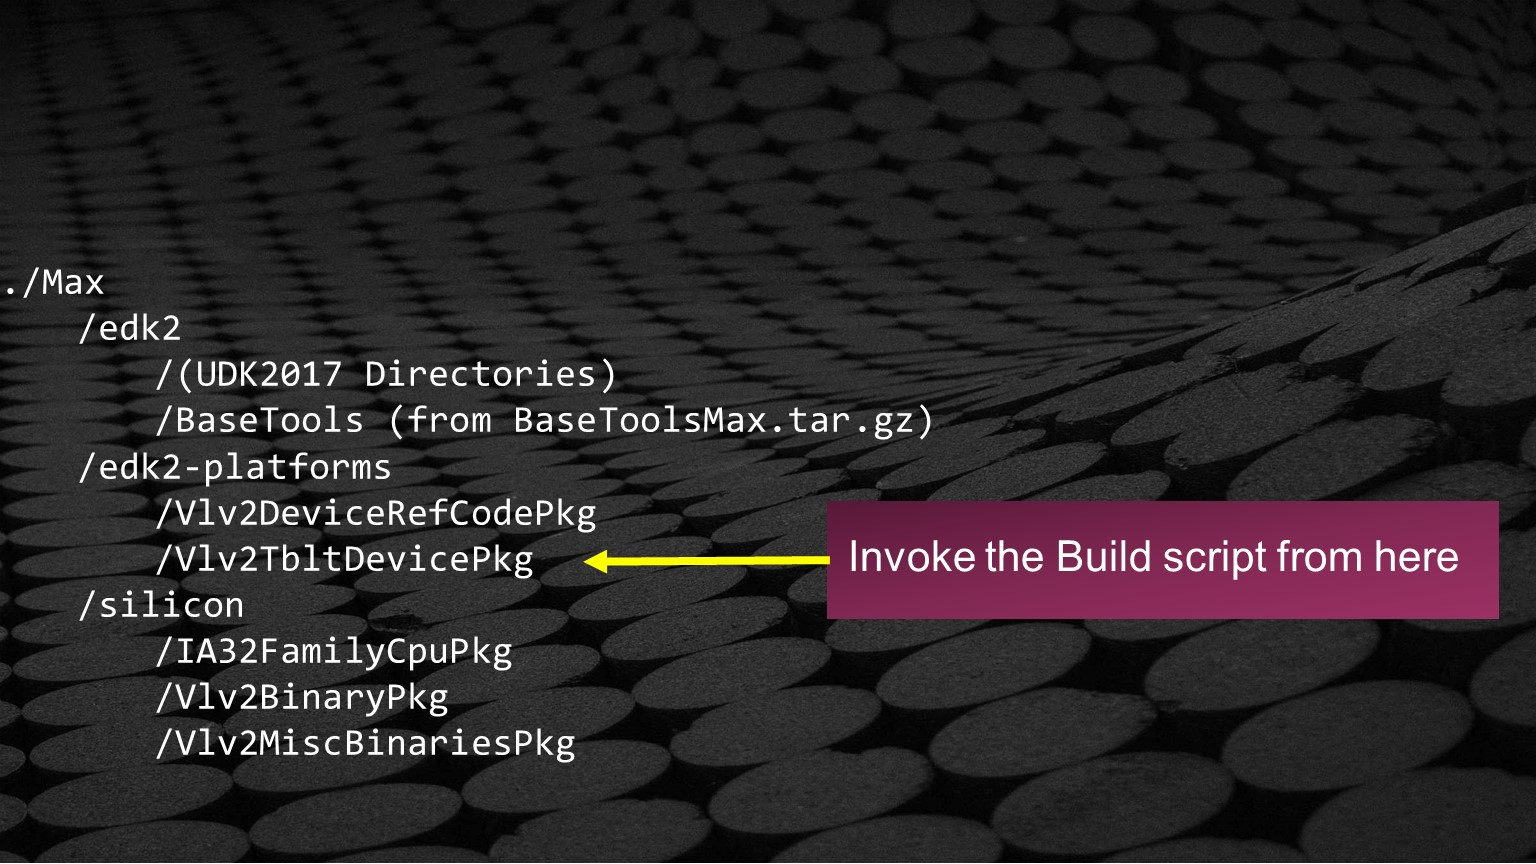
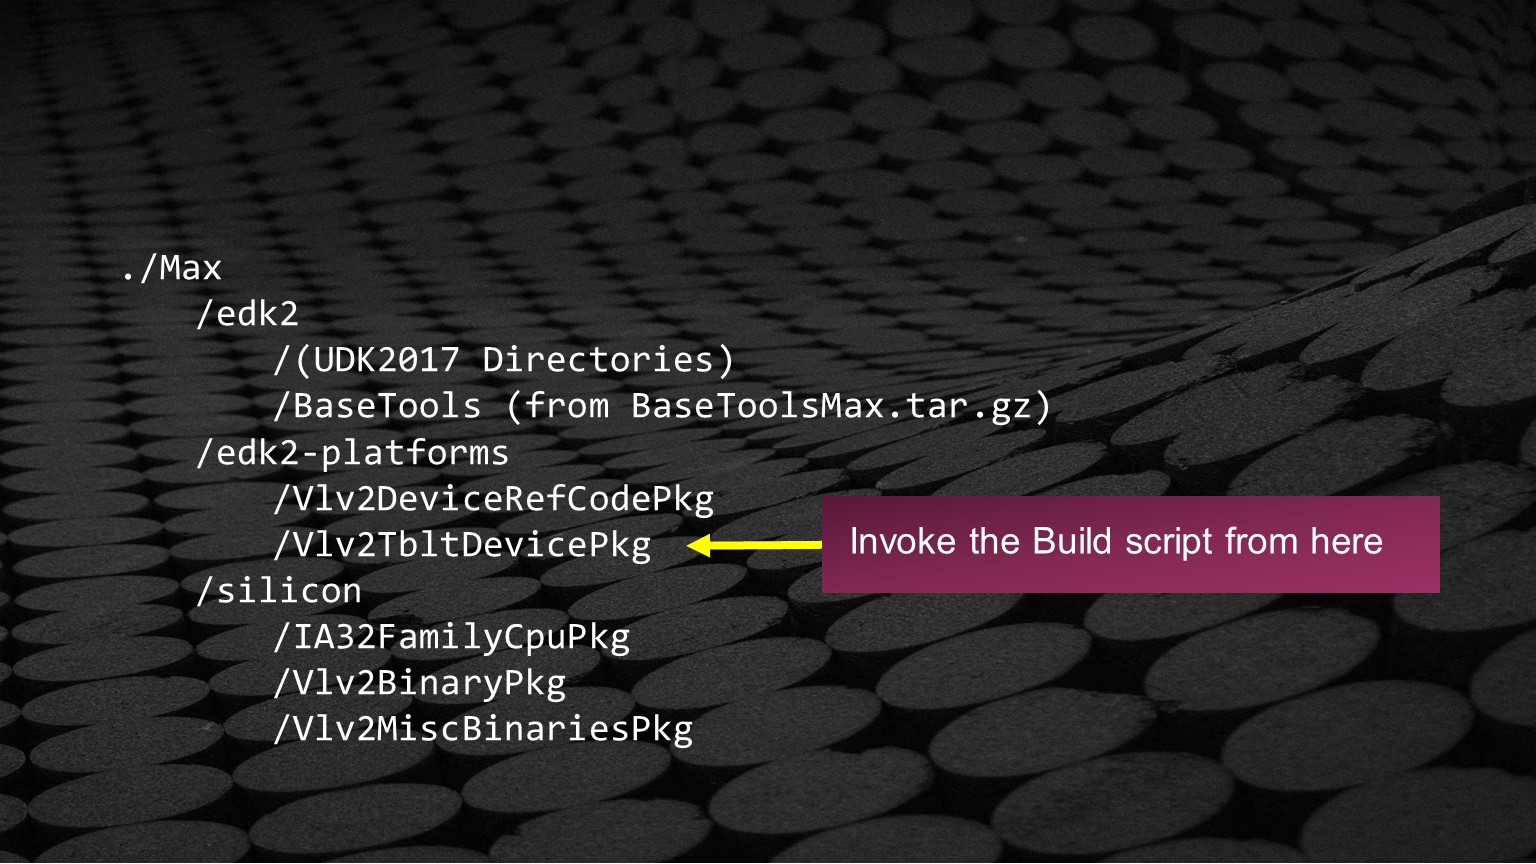
Signed-off-by: Laurie0131 <laurie.jarlstrom@intel.com>

Changed region(s): [[0.0625, 0.375, 1.0, 0.875], [0.0938, 0.2812, 0.1875, 0.375], [0.0, 0.3125, 0.0625, 0.3438]]

diff --git a/PITCHME.md b/PITCHME.md
@@ -834,7 +834,7 @@ bash$ git clone https://github.com/tianocore-training/PlatformBuildLab_FW.git
 <p style="line-height:70%"><span style="font-size:0.8em"><br>
 @color[#87E2A9](Previous Lab Setup Requirements)<br></span>
  <font face="Consolas"><span style="background-color: #000000; font-size:0.550em;"> 
-&nbsp;&nbsp; bash$ sudo apt-get install build-essential uuid-dev iasl git gcc-5 nasm  &nbsp;&nbsp;
+&nbsp; bash$ sudo apt-get install build-essential uuid-dev iasl git gcc-5 nasm  &nbsp;
 </span></font><br>
 <span style="font-size:0.8em">
 @color[#87E2A9](Additional Lab Setup -)</span><br>
@@ -849,9 +849,9 @@ bash$ git clone https://github.com/tianocore-training/PlatformBuildLab_FW.git
 <p style="line-height:40%" align="left"><span style="font-size:0.55em">
 <b>Directories:</b><br>&nbsp;&nbsp;
 &bull;Max<br>&nbsp;&nbsp;
-&bull;BuildToolsMax.tar.gz<br>&nbsp;&nbsp;
-&bull;At the Terminal prompt - install Screen utility for Serial Console to run UEFI Shell<br>&nbsp;&nbsp;
- <font face="Consolas"><span style="background-color: #000000; font-size:0.750em;"> 
+&bull;BuildToolsMax.tar.gz<br><br>&nbsp;&nbsp;
+At the Terminal prompt - install Screen utility for Serial Console to run UEFI Shell<br>&nbsp;&nbsp;
+ <font face="Consolas"><span style="background-color: #000000; font-size:0.850em;"> 
 &nbsp;&nbsp; bash$ sudo apt-get screen &nbsp;&nbsp;&nbsp;&nbsp;&nbsp;&nbsp;&nbsp;&nbsp;
 </span></font>
 &nbsp;&nbsp;
@@ -863,7 +863,7 @@ bash$ git clone https://github.com/tianocore-training/PlatformBuildLab_FW.git
 <p style="line-height:40%" align="left"><span style="font-size:0.55em"><font color="yellow">
 <br>&nbsp;&nbsp;
 &hyphen;&nbsp;&nbsp;MinnowBoard Max Project source code<br>&nbsp;&nbsp;
-&hyphen;&nbsp;&nbsp;Build told for GCC compiler<br>&nbsp;&nbsp;
+&hyphen;&nbsp;&nbsp;Build told for GCC compiler<br><br>&nbsp;&nbsp;
 &nbsp;&nbsp;<br>&nbsp;&nbsp;
 &nbsp;&nbsp;&nbsp;&nbsp;
 </font></snap></p>
@@ -895,10 +895,10 @@ bash$ sudo apt-get install screen
 Open a terminal prompt(Alt-Cnt-T)<br>
 Create a working  space source directory under the home directory<br>
 </span>
- <font face="Consolas"><span style="background-color: #000000; font-size:0.650em;"> 
+ <font face="Consolas"><span style="background-color: #000000; font-size:0.60em;"> 
 &nbsp;&nbsp; bash$ mkdir ~src &nbsp;&nbsp;&nbsp;&nbsp;
 </span></font><br>
-<span style="font-size:0.7em">
+<span style="font-size:0.65em">
 From the `FW/PlatformBuildLab` folder, copy and paste folder "`~FW/Max`" to `~src`
 </span></p>
 
@@ -1259,6 +1259,7 @@ Note:
 <br>
 <span style="font-size:0.9em" >@size[1.25em](<font color="yellow"> &#10106;</font>)&nbsp;&nbsp;Flash the binary image</span>
 @snapend
+<br>
 1.  <span style="font-size:0.85em" >&nbsp;&nbsp;Access Max Binary image file from build folder</span>
   - <span style="font-size:0.75em" >`~src/Max/Vlv2TbltDevicePkg/Stitch`</span>
   - <span style="font-size:0.75em" >DEBUG 	MNW2MAX1.X64.D_0099_01_GCC.bin</span>
@@ -1316,7 +1317,7 @@ Reset and boot new firmware
 <br>
 <span style="font-size:0.9em" >@size[1.25em](<font color="yellow"> &#10107;</font>)&nbsp;&nbsp;Reboot and Verify</span>
 @snapend
-
+<br>
 - <span style="font-size:0.8em" >Verify that the Firmware was updated by checking the Date</span>
 - <span style="font-size:0.8em" >At the shell prompt type “exit”</span>
 - <span style="font-size:0.8em" >The EDK II front page will show the BIOS ID with Date/time stamp</span>
